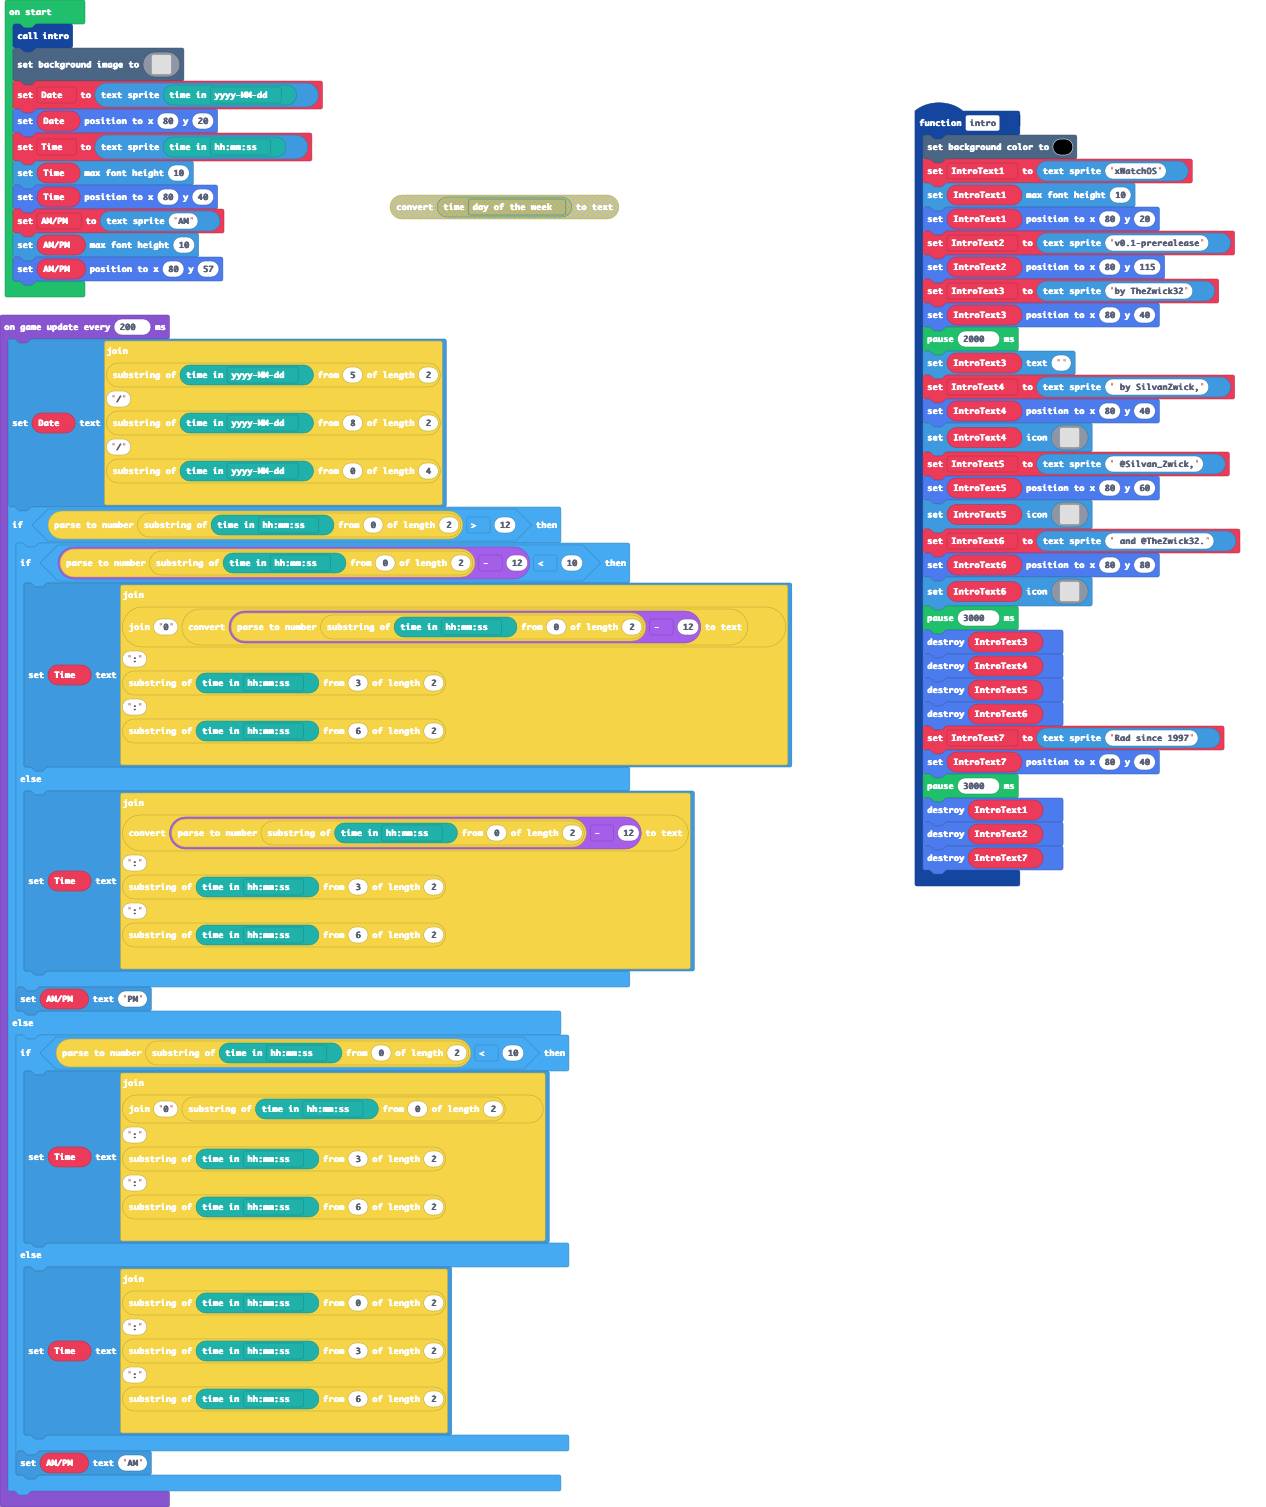
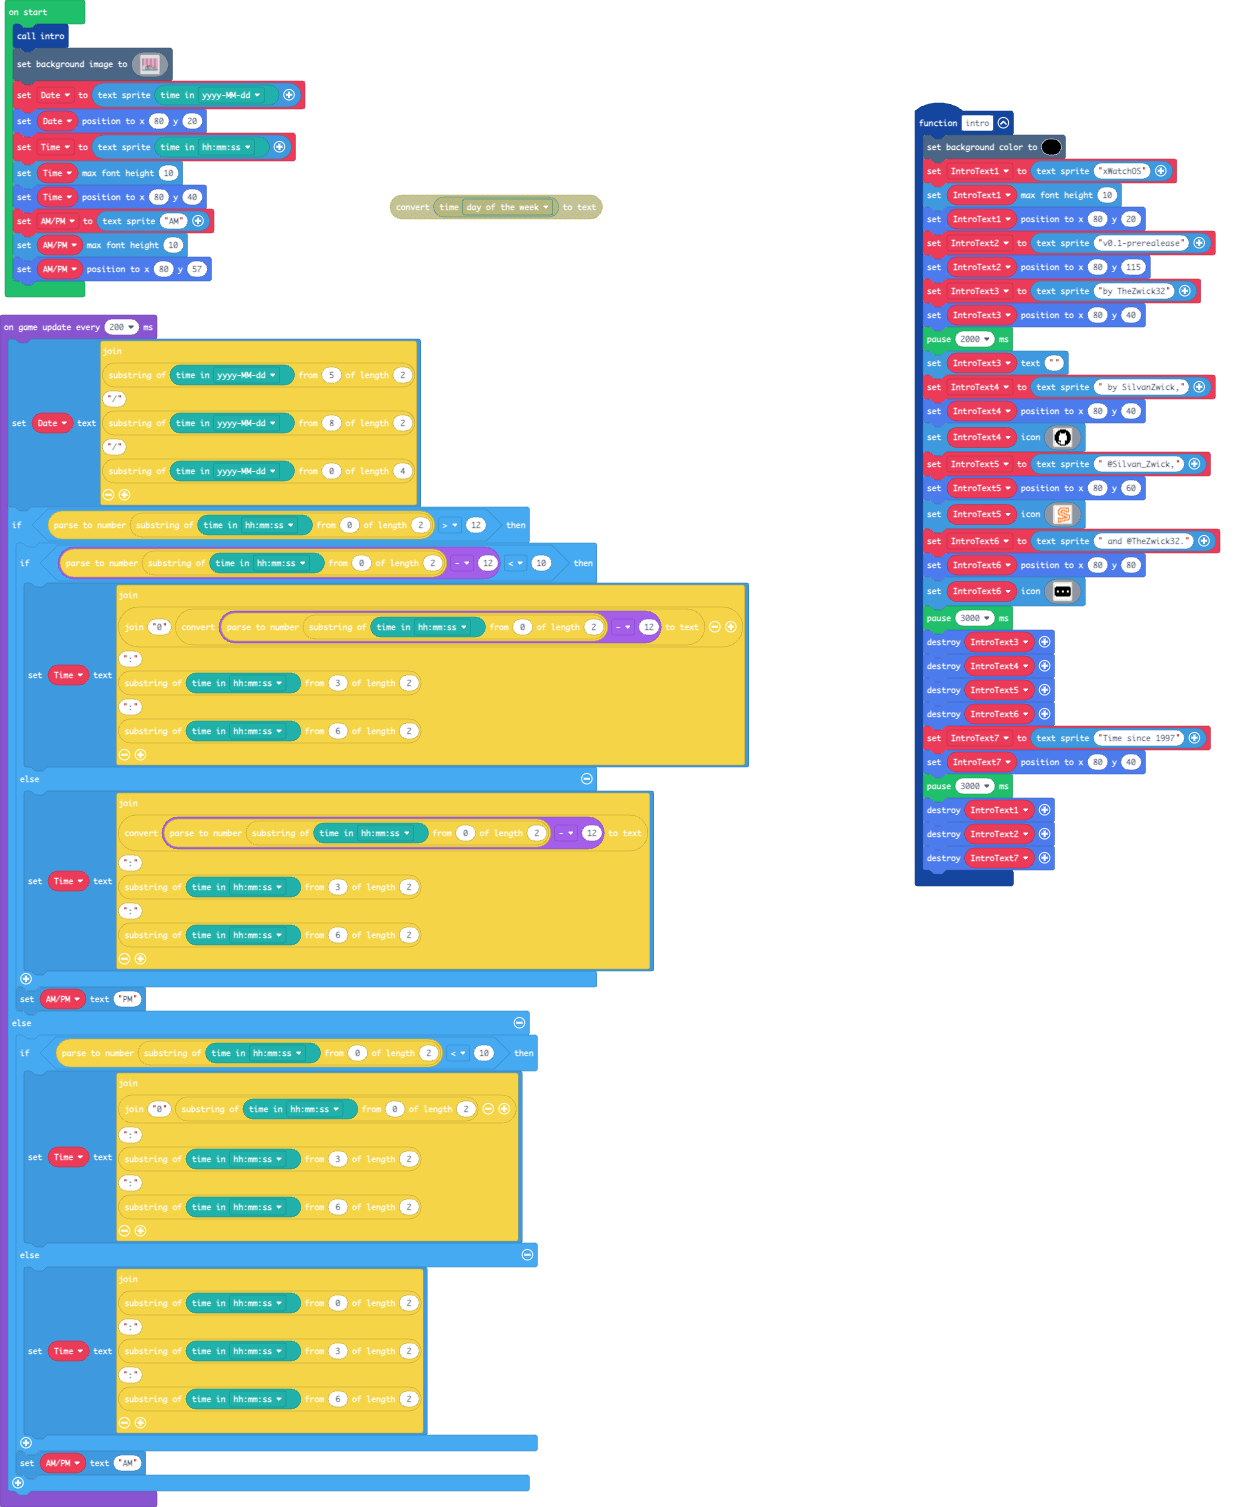
undo rad

diff --git a/main.ts b/main.ts
@@ -23,7 +23,7 @@ function intro () {
     IntroText4.destroy()
     IntroText5.destroy()
     IntroText6.destroy()
-    IntroText7 = textsprite.create("Rad since 1997")
+    IntroText7 = textsprite.create("Time since 1997")
     IntroText7.setPosition(80, 40)
     pause(3000)
     IntroText1.destroy()
